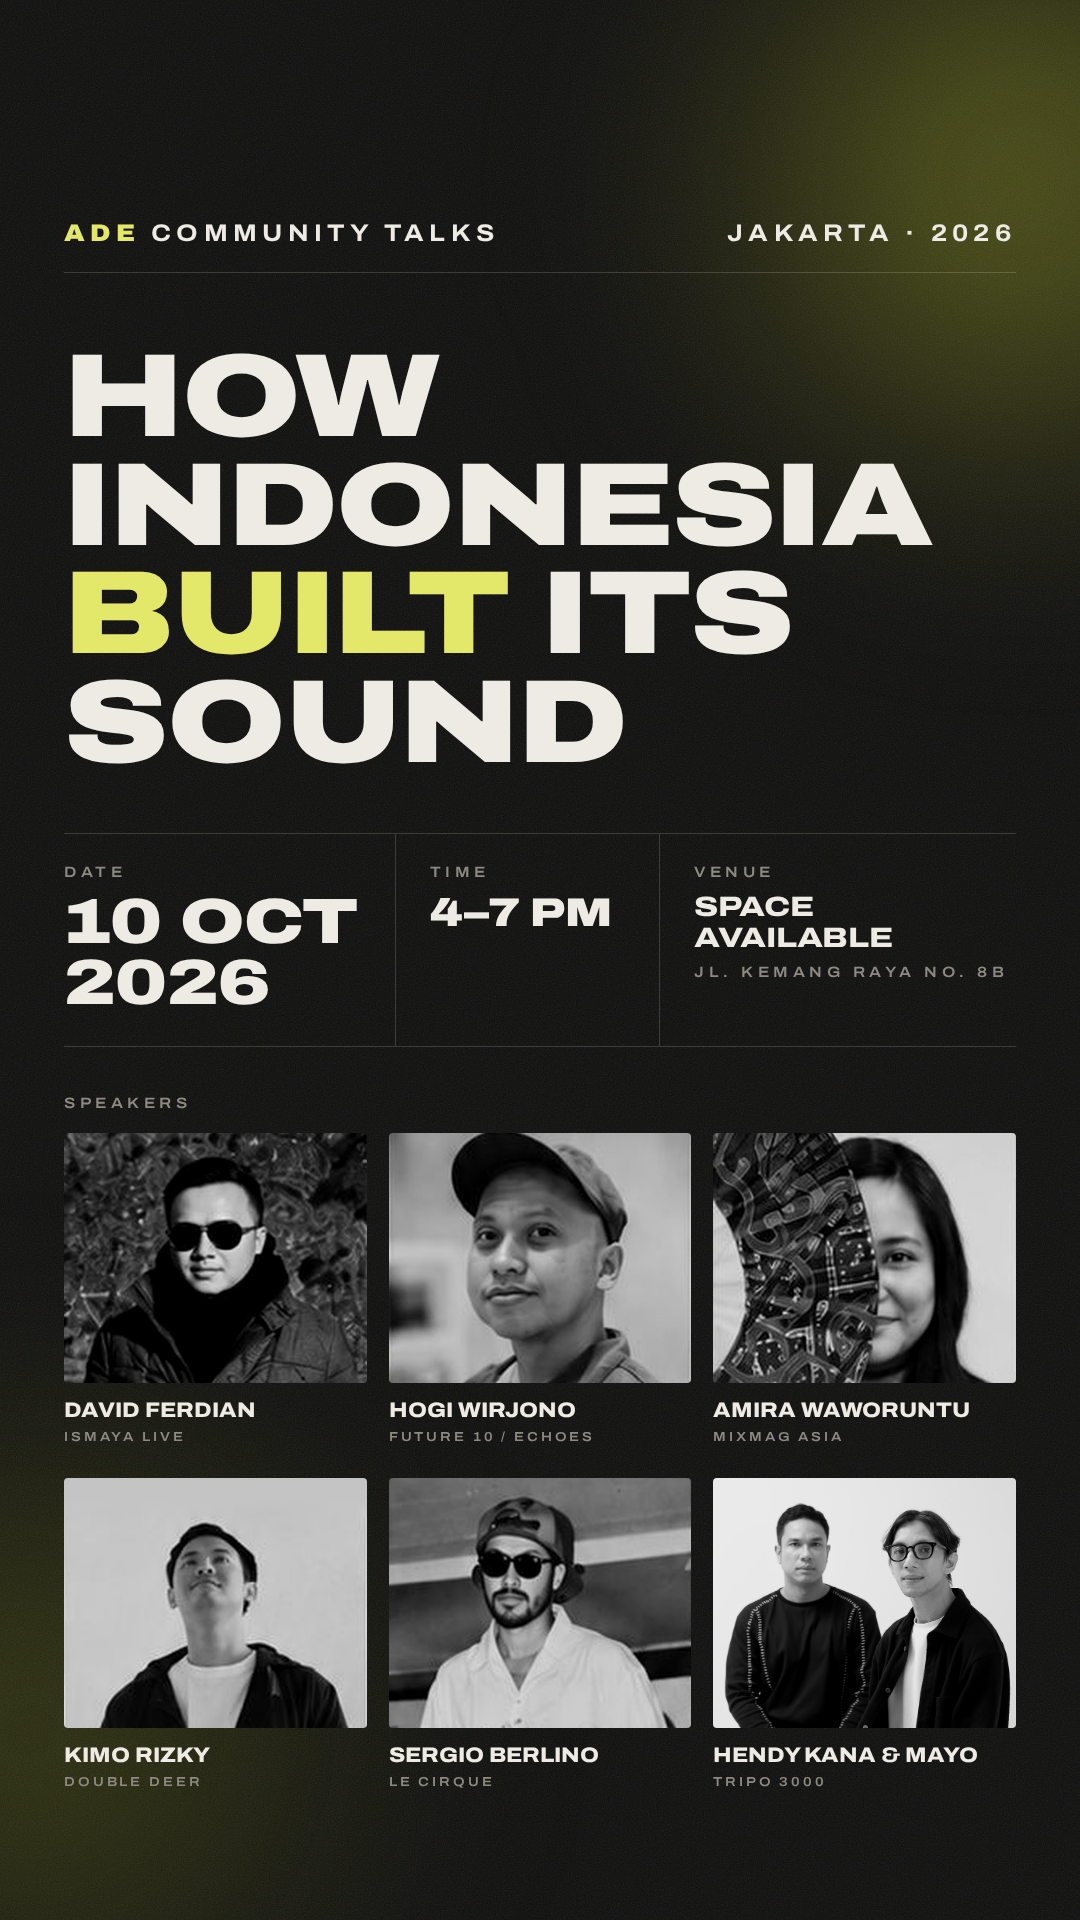
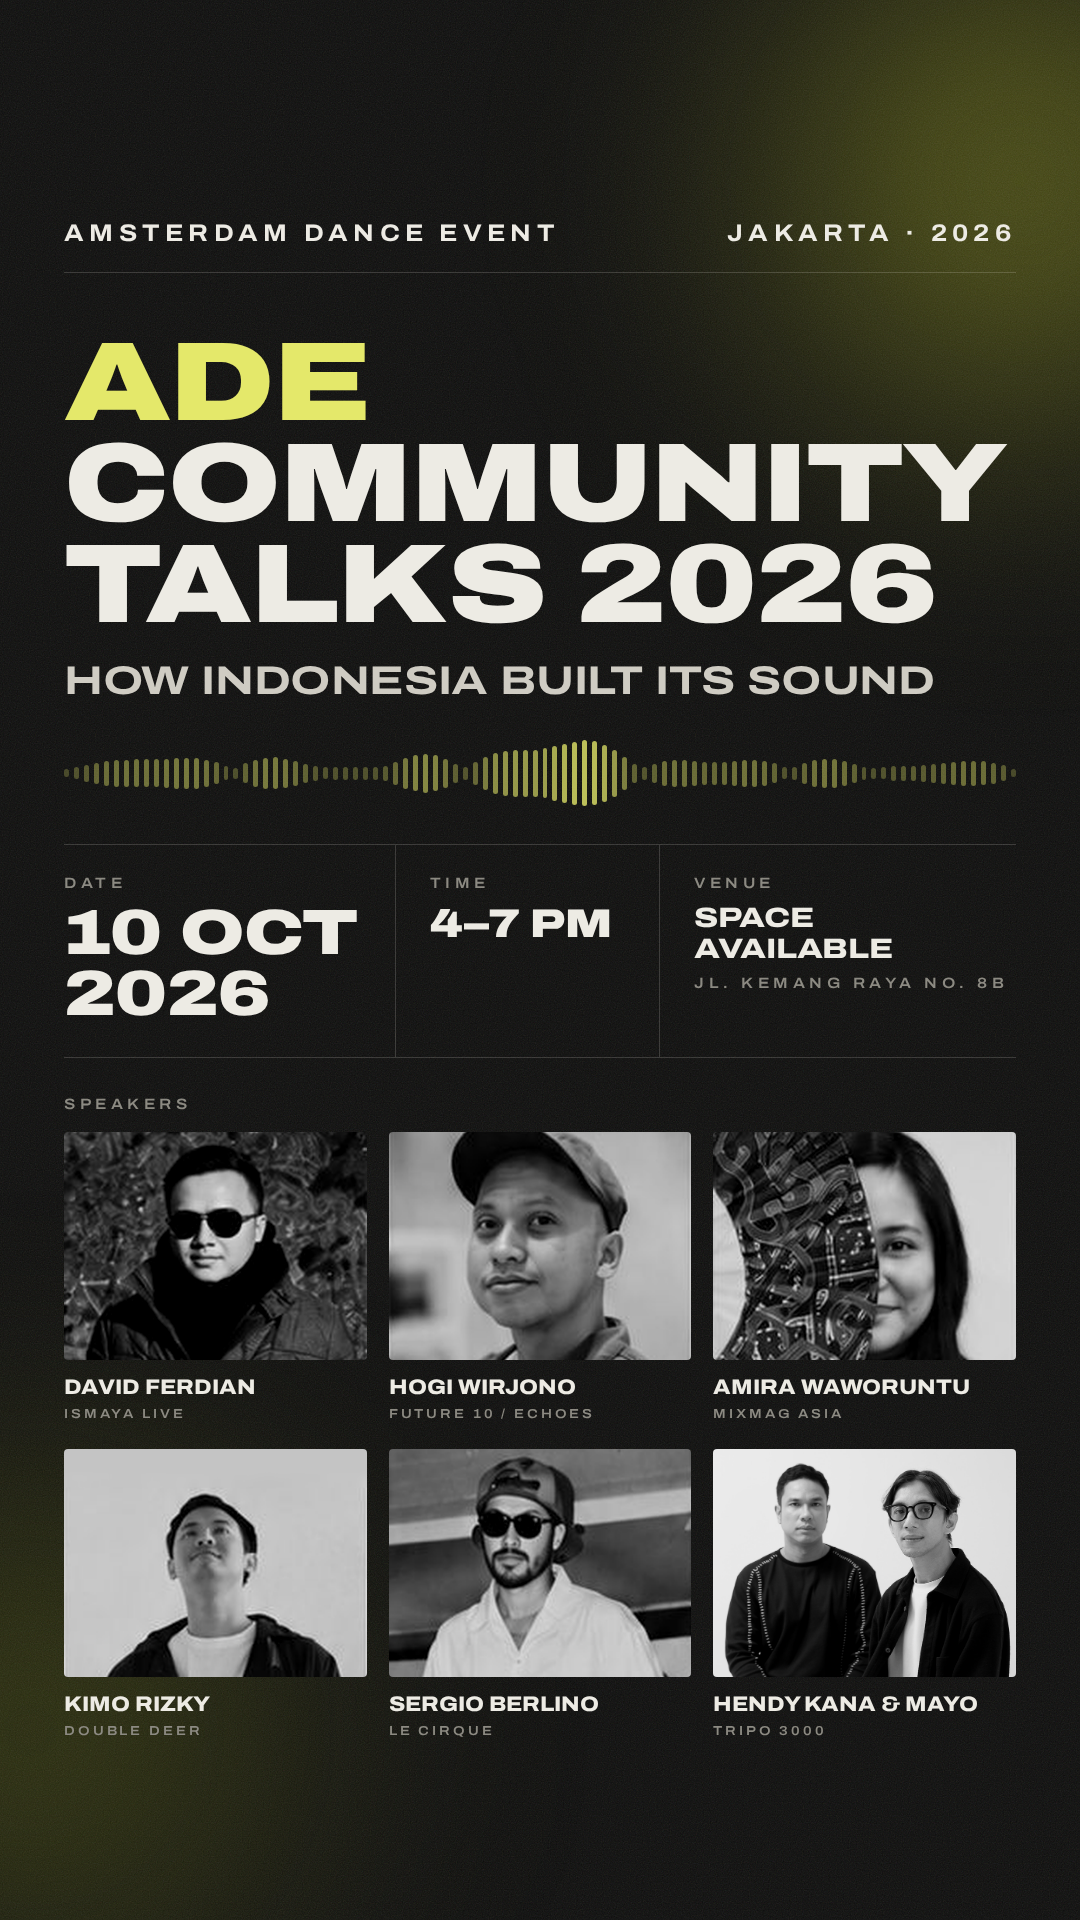
ADE lineup: lead with 'ADE Community Talks 2026', add sound wave
Claude-Session: https://claude.ai/code/session_01Sc5gF2HRFqjLpMQDrx7aqZ

diff --git a/events/ade-community-talks-2026/01-lineup.html b/events/ade-community-talks-2026/01-lineup.html
@@ -1,7 +1,7 @@
 <!doctype html><html><head><meta charset="utf-8"><title>ADE Community Talks — Lineup</title><link rel="stylesheet" href="modern.css">
 <style>
-.grid { display: grid; grid-template-columns: repeat(3, 1fr); column-gap: 22px; row-gap: 34px; }
-.card .ph { height: 250px; overflow: hidden; border-radius: 4px; background: #1b1b1a; }
+.grid { display: grid; grid-template-columns: repeat(3, 1fr); column-gap: 22px; row-gap: 28px; }
+.card .ph { height: 228px; overflow: hidden; border-radius: 4px; background: #1b1b1a; }
 .card .ph img { width: 100%; height: 100%; object-fit: cover; display: block; filter: grayscale(1) contrast(1.05) brightness(.92); }
 .card .nm { margin-top: 16px; font-size: 21px; font-weight: 800; font-stretch: 112%; text-transform: uppercase; line-height: 1.1; }
 .card .org { margin-top: 8px; font-size: 13px; letter-spacing: .22em; }
@@ -9,18 +9,21 @@
 <body>
 <div class="glow g1"></div><div class="glow g2"></div><div class="grain"></div>
 <div class="page">
-  <div class="row"><div class="label head"><b>ADE</b> Community Talks</div><div class="label head">Jakarta · 2026</div></div>
+  <div class="row"><div class="label head">Amsterdam Dance Event</div><div class="label head">Jakarta · 2026</div></div>
   <div class="hr" style="margin-top:26px"></div>
 
-  <div class="display" style="font-size:118px;line-height:.92;margin-top:70px">How<br>Indonesia<br><em>Built</em> Its<br>Sound</div>
+  <div class="display" style="font-size:112px;line-height:.9;margin-top:60px"><em>ADE</em><br>Community<br>Talks 2026</div>
+  <div class="display" style="font-size:40px;font-weight:700;color:var(--soft);margin-top:24px">How Indonesia Built Its Sound</div>
 
-  <div class="facts" style="margin-top:56px">
+  <div class="wave" style="margin-top:36px"></div>
+
+  <div class="facts" style="margin-top:36px">
     <div><div class="label">Date</div><div class="v display date">10 Oct<br>2026</div></div>
     <div><div class="label">Time</div><div class="v display time">4–7 PM</div></div>
     <div><div class="label">Venue</div><div class="v display venue">Space Available<small class="label">Jl. Kemang Raya No. 8B</small></div></div>
   </div>
 
-  <div class="label" style="margin-top:48px;margin-bottom:22px">Speakers</div>
+  <div class="label" style="margin-top:38px;margin-bottom:20px">Speakers</div>
   <div class="grid">
     <div class="card"><div class="ph"><img src="img/david.png"></div><div class="nm">David Ferdian</div><div class="label org">Ismaya Live</div></div>
     <div class="card"><div class="ph"><img src="img/hogi.png"></div><div class="nm">Hogi Wirjono</div><div class="label org">Future 10 / Echoes</div></div>
@@ -30,4 +33,5 @@
     <div class="card"><div class="ph"><img src="img/tripo3000.jpg"></div><div class="nm">Hendy Kana &amp; Mayo</div><div class="label org">Tripo 3000</div></div>
   </div>
 </div>
+<script src="wave.js"></script>
 </body></html>
